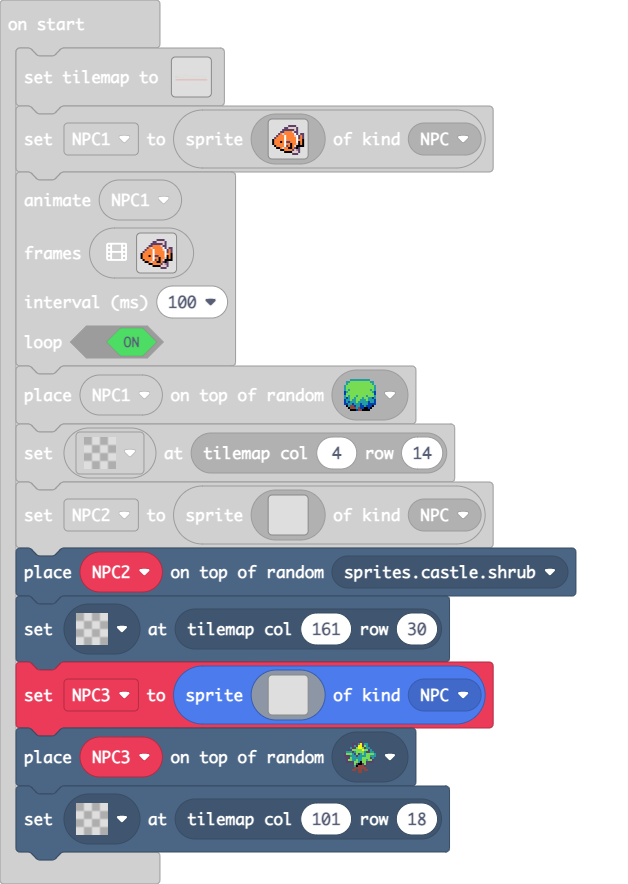
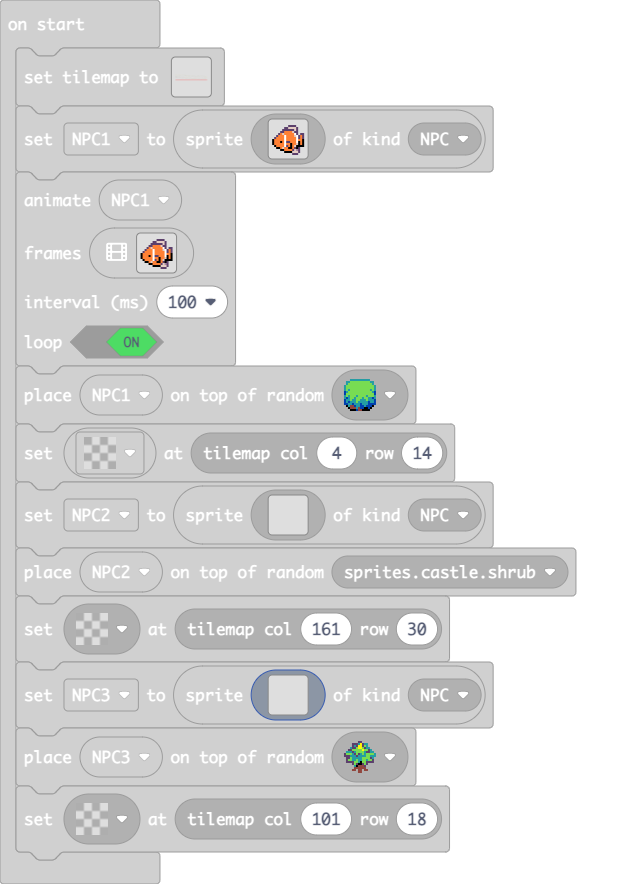
Update main.blocks, images.g.jres, images.g.ts

Changed region(s): [[0.0, 0.6109, 0.9379, 0.9774]]

diff --git a/images.g.ts b/images.g.ts
@@ -216,6 +216,42 @@ f 4 4 4 4 4 1 4 4 f 4 4 d f 4 f
 . . . . . . . . . . . . . . . . 
 . . . . . . . . . . . . . . . . 
 `;
+            case "image12":return img`
+. . . . . . . . . . . . . . . . 
+. . . . . . . . . . . . . . . . 
+. . . . . . . . . . . . . . . . 
+. . . . . . . . . . . . . . . . 
+. . . . . . . . . . . . . . . . 
+. . . . . . . . . . . . . . . . 
+. . . . . . . . . . . . . . . . 
+. . . . . . . . . . . . . . . . 
+. . . . . . . . . . . . . . . . 
+. . . . . . . . . . . . . . . . 
+. . . . . . . . . . . . . . . . 
+. . . . . . . . . . . . . . . . 
+. . . . . . . . . . . . . . . . 
+. . . . . . . . . . . . . . . . 
+. . . . . . . . . . . . . . . . 
+. . . . . . . . . . . . . . . . 
+`;
+            case "image13":return img`
+. . . . . . . . . . . . . . . . 
+. . . . . . . . . . . . . . . . 
+. . . . . . . . . . . . . . . . 
+. . . . . . . . . . . . . . . . 
+. . . . . . . . . . . . . . . . 
+. . . . . . . . . . . . . . . . 
+. . . . . . . . . . . . . . . . 
+. . . . . . . . . . . . . . . . 
+. . . . . . . . . . . . . . . . 
+. . . . . . . . . . . . . . . . 
+. . . . . . . . . . . . . . . . 
+. . . . . . . . . . . . . . . . 
+. . . . . . . . . . . . . . . . 
+. . . . . . . . . . . . . . . . 
+. . . . . . . . . . . . . . . . 
+. . . . . . . . . . . . . . . . 
+`;
         }
         return null;
     })
